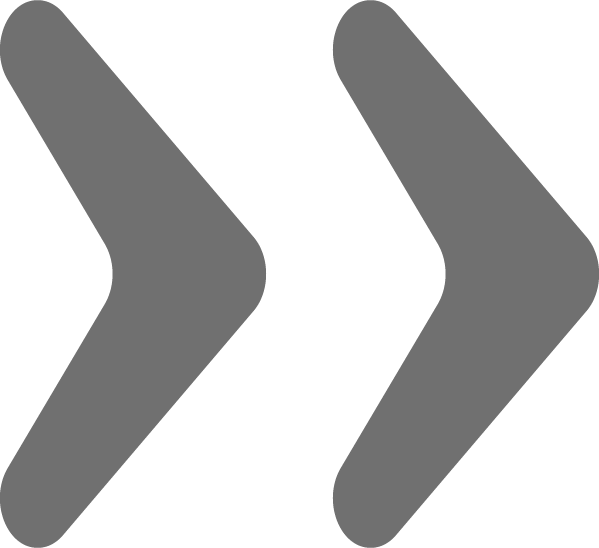
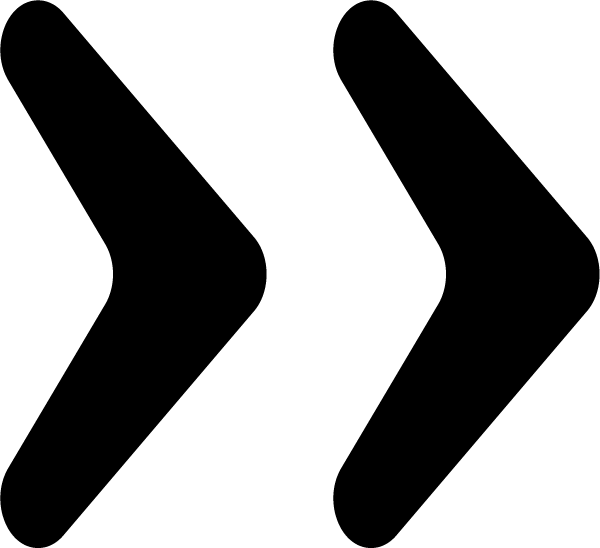
fixed highlight issue

diff --git a/src/corona-app.css b/src/corona-app.css
@@ -100,6 +100,9 @@ body, html {
     top: 2vw;
   }
 }
+html {
+  -webkit-tap-highlight-color: transparent
+}
 
 body {
   margin: 0px;
@@ -125,7 +128,15 @@ body {
   z-index: 1;
   left: 4vw;
   top: 4vw;
-  filter: invert(20%);
+  padding: none;
+}
+.sidebarBTN:hover {
+  animation: slide .7s   infinite;
+}
+@keyframes slide {
+  from{left:4vw}
+  to{left:6vw}
+
 }
 .sidebarBTN img {
   width: 5vw;
@@ -228,13 +239,15 @@ body {
 .btn p {
   margin: 0px;
 }
-
+button,
+textarea,
+input,
+select,
 .cover {
-  max-width: 100%;
-  height: 100%;
-  position: absolute;
-}
+position: absolute;
+-webkit-tap-highlight-color: black
 
+}
 ::placeholder {
   color: #f0932b;
   opacity: 0.5;
@@ -341,7 +354,7 @@ body {
   position: absolute;
   background-color: white;
   left: 30vw;
-  top: 10vw;
+  top: 30vh;
   transition: 0.2s;
 }
 .closeBTN img {
@@ -380,7 +393,7 @@ body {
   width: 100%;
   height: 100%;
   background-color: rgba(0, 0, 0, 0.2);
-  position: absolute;
+  position: fixed;
   display: none;
   z-index: 9;
 }
@@ -445,6 +458,7 @@ body {
   transition: 0.4s;
   border-radius: 10vw;
 }
+
 .stayHOME {
   position: fixed;
   top: 2vw;
@@ -562,6 +576,7 @@ body {
 }
 .secondContent {
   position: relative;
+  background-color: transparent;
   overflow-x: auto;
   overflow-y: auto;
 }
